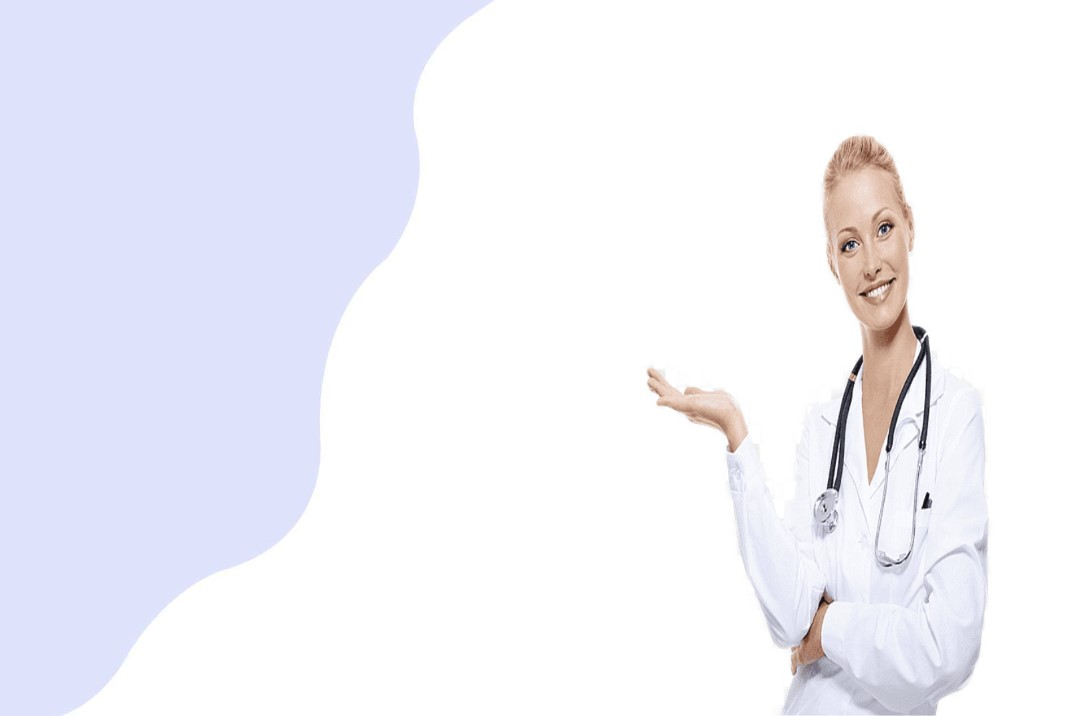
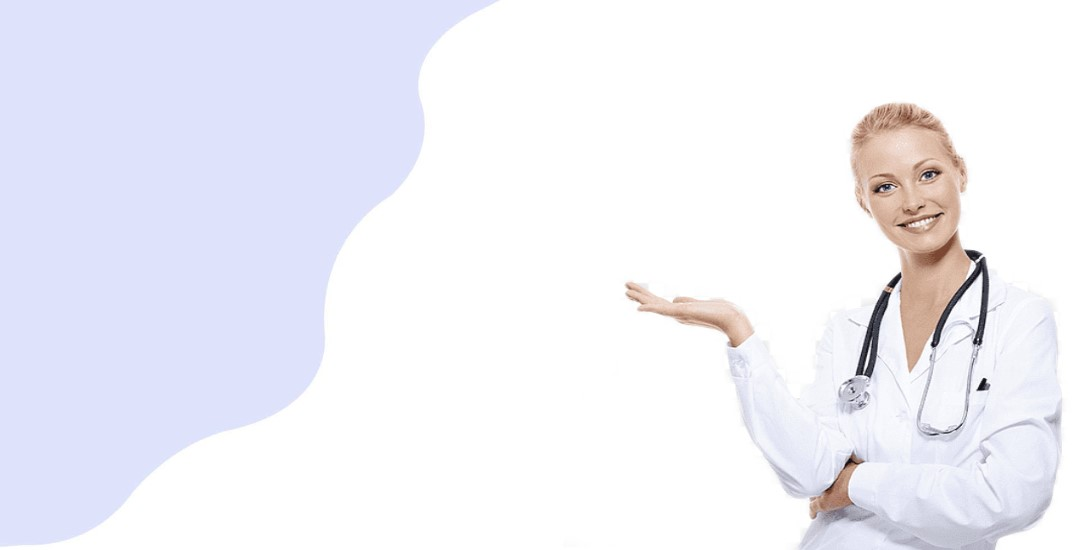
fix css1

diff --git a/css/style.css b/css/style.css
@@ -273,7 +273,7 @@ h6,
         position: absolute;
         width: 100%;
         height: 100%;
-        object-fit: cover;
+        object-fit: fill;
     }
 }
 
